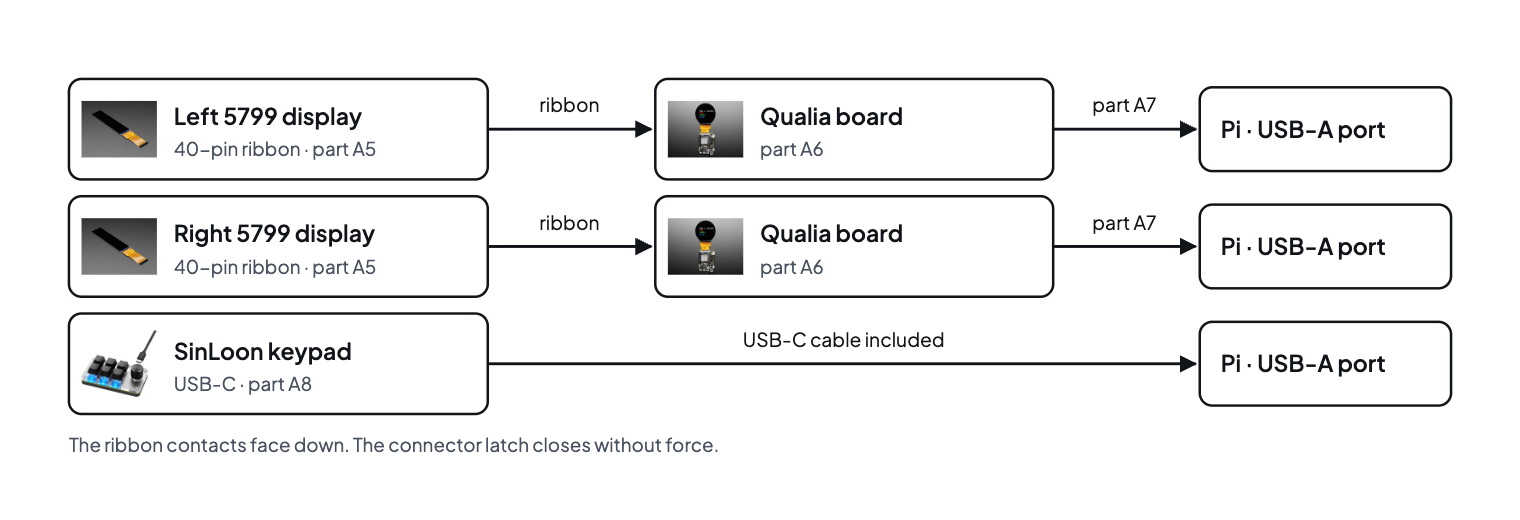
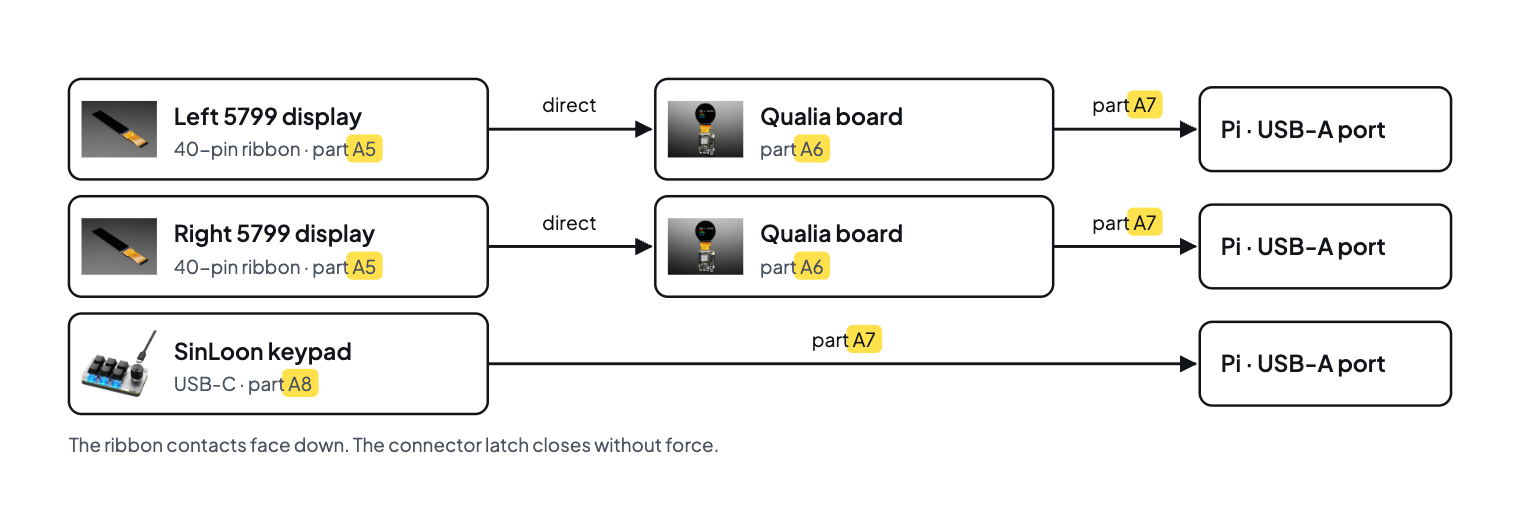
Parts list quantities as ×1 and ×2, a diagram of every link
The Qty column reads ×1, ×2 or ×3 in bold. A note warns that the power
supply A2 comes with the Pi kit A1. Each part's sheet says what it
connects to. The wiring guide opens with one drawing of every part and
every link, each marked "direct" or with the part that makes it on a
yellow chip, and explains the five parts that only make a link. The
other wiring drawings show part labels on yellow chips.

diff --git a/tests/test_repo.py b/tests/test_repo.py
@@ -120,7 +120,7 @@ class Guides(unittest.TestCase):
         self.assertEqual([r[0] for r in rows], ["A%d" % n for n in range(1, 22)])
         for label, anchor, qty in rows:
             self.assertEqual(anchor, label.lower())
-            self.assertRegex(qty.strip(), r"^\d", "%s has no quantity" % label)
+            self.assertRegex(qty.strip(), r"^\*\*×\d", "%s has no quantity such as ×2" % label)
             self.assertIn('<a id="%s"></a>%s. ' % (anchor, label), text)
         for picture in re.findall(r'src="images/parts/([^"]+)"', text):
             self.assertTrue(os.path.isfile(os.path.join(REPO, "docs", "images", "parts", picture)), picture)

diff --git a/docs/BOM.md b/docs/BOM.md
@@ -14,29 +14,29 @@ are another matter: they are measured in its print files.
 
 | No. | &nbsp;&nbsp;&nbsp;&nbsp;&nbsp;&nbsp;&nbsp;&nbsp;&nbsp;&nbsp;&nbsp;&nbsp;&nbsp;&nbsp;&nbsp;&nbsp;&nbsp;&nbsp;&nbsp;&nbsp;&nbsp;&nbsp;&nbsp;&nbsp; | Part | Qty | What it does | In version 1.0 |
 |---|---|---|---|---|---|
-| **A1** | <img src="images/parts/a01-raspberry-pi-4.jpg" width="96" alt="Raspberry Pi 4 Model B, 1 GB"> | [Raspberry Pi 4 Model B, 1 GB](#a1) | 1 | Runs the radio program, plays the sounds and drives the screens | Wired |
-| **A2** | <img src="images/parts/a02-power-supply.jpg" width="96" alt="USB-C power supply, 5.1 V 3 A"> | [USB-C power supply, 5.1 V 3 A](#a2) | 1 | Powers the whole radio through one cable | Wired |
-| **A3** | <img src="images/parts/a03-microsd-card.jpg" width="96" alt="microSD card, 32 GB"> | [microSD card, 32 GB](#a3) | 1 | Holds Raspberry Pi OS and the radio program | Wired |
-| **A4** | <img src="images/parts/a04-sd-adapter.jpg" width="96" alt="microSD to SD adapter"> | [microSD to SD adapter](#a4) | 1 | Lets a computer's SD slot write the card | Wired |
-| **A5** | <img src="images/parts/a05-bar-display.jpg" width="96" alt="3.7 in bar display, 240 × 960 pixels"> | [3.7 in bar display, 240 × 960 pixels](#a5) | 2 | Shows the frequency, the channel and the spectrum. The two sit end to end behind the window | One wired, one planned |
-| **A6** | <img src="images/parts/a06-qualia-board.jpg" width="96" alt="Qualia ESP32-S3 board for RGB-666 displays"> | [Qualia ESP32-S3 board for RGB-666 displays](#a6) | 2 | Drives one bar display each. The Pi talks to each board over USB | One wired, one planned |
-| **A7** | <img src="images/parts/a07-usb-a-to-c-cable.jpg" width="96" alt="USB-A to USB-C cable, 91 cm"> | [USB-A to USB-C cable, 91 cm](#a7) | 3 | Connects the Pi to each Qualia board, and to the keypad | Two wired, one planned |
-| **A8** | <img src="images/parts/a08-keypad.jpg" width="96" alt="SinLoon keypad, 6 keys and a knob"> | [SinLoon keypad, 6 keys and a knob](#a8) | 1 | The channel keys and the volume knob | Wired |
-| **A9** | <img src="images/parts/a09-vu-meters.jpg" width="96" alt="Pair of VU meters, 0 to 500 µA"> | [Pair of VU meters, 0 to 500 µA](#a9) | 1 pair | The SIGNAL and AUDIO needles | Planned |
-| **A10** | <img src="images/parts/a10-trim-potentiometer.jpg" width="96" alt="10 kΩ trim potentiometer"> | [10 kΩ trim potentiometer](#a10) | 2 | Sets the full scale of each needle | Planned |
-| **A11** | <img src="images/parts/a11-step-up-cable.jpg" width="96" alt="USB 5 V to 12 V step-up cable"> | [USB 5 V to 12 V step-up cable](#a11) | 1 | Turns 5 V into the 12 V that lights the meters | Planned |
-| **A12** | <img src="images/parts/a12-usb-a-socket-on-wires.jpg" width="96" alt="USB-A socket on four jumper wires"> | [USB-A socket on four jumper wires](#a12) | 1 | Gives the step-up cable a USB socket on the Pi's header | Planned |
-| **A13** | <img src="images/parts/a13-speaker.jpg" width="96" alt="MonkMakes Amplified Speaker 2"> | [MonkMakes Amplified Speaker 2](#a13) | 1 | The speaker, with its own amplifier | Wired |
-| **A14** | <img src="images/parts/a14-audio-cable.jpg" width="96" alt="3.5 mm audio cable, 30 cm, one end at a right angle"> | [3.5 mm audio cable, 30 cm, one end at a right angle](#a14) | 1 | Takes the sound from the Pi's jack to the speaker | Wired |
-| **A15** | <img src="images/parts/a15-cb-microphone.jpg" width="96" alt="Uniden BC645 CB microphone"> | [Uniden BC645 CB microphone](#a15) | 1 | The hand microphone and its push-to-talk button | Planned |
-| **A16** | <img src="images/parts/a16-microphone-socket.jpg" width="96" alt="4-pin microphone socket for the face"> | [4-pin microphone socket for the face](#a16) | 1 | The socket that the microphone plugs into | Planned |
-| **A17** | <img src="images/parts/a17-usb-sound-adapter.jpg" width="96" alt="USB sound adapter with a microphone input"> | [USB sound adapter with a microphone input](#a17) | 1 | Gives the Pi the microphone input it lacks | Planned |
-| **A18** | <img src="images/parts/a18-trrs-plug.jpg" width="96" alt="3.5 mm TRRS plug with screw terminals"> | [3.5 mm TRRS plug with screw terminals](#a18) | 1 | Joins the microphone's wires to the sound adapter | Planned |
-| **A19** | <img src="images/parts/a19-jumper-wires.jpg" width="96" alt="Female-to-female jumper wires, 30 cm"> | [Female-to-female jumper wires, 30 cm](#a19) | 1 strip of 20 | Join the Pi's pins to the speaker, the needles and the push-to-talk button | Wired |
-| **A20** | <img src="images/parts/a20-usb-c-panel-socket.jpg" width="96" alt="USB-C panel socket on a 30 cm cable"> | [USB-C panel socket on a 30 cm cable](#a20) | 1 | The power socket on the back of the case | Planned |
-| **A21** | <img src="images/parts/a21-switch-cable.jpg" width="96" alt="USB-C cable with an on and off switch"> | [USB-C cable with an on and off switch](#a21) | 1 | The master switch | Planned |
+| **A1** | <img src="images/parts/a01-raspberry-pi-4.jpg" width="96" alt="Raspberry Pi 4 Model B, 1 GB"> | [Raspberry Pi 4 Model B, 1 GB](#a1) | **×1** | Runs the radio program, plays the sounds and drives the screens | Wired |
+| **A2** | <img src="images/parts/a02-power-supply.jpg" width="96" alt="USB-C power supply, 5.1 V 3 A"> | [USB-C power supply, 5.1 V 3 A](#a2) | **×1, in the A1 kit** | Powers the whole radio through one cable | Wired |
+| **A3** | <img src="images/parts/a03-microsd-card.jpg" width="96" alt="microSD card, 32 GB"> | [microSD card, 32 GB](#a3) | **×1** | Holds Raspberry Pi OS and the radio program | Wired |
+| **A4** | <img src="images/parts/a04-sd-adapter.jpg" width="96" alt="microSD to SD adapter"> | [microSD to SD adapter](#a4) | **×1** | Lets a computer's SD slot write the card | Wired |
+| **A5** | <img src="images/parts/a05-bar-display.jpg" width="96" alt="3.7 in bar display, 240 × 960 pixels"> | [3.7 in bar display, 240 × 960 pixels](#a5) | **×2** | Shows the frequency, the channel and the spectrum. The two sit end to end behind the window | One wired, one planned |
+| **A6** | <img src="images/parts/a06-qualia-board.jpg" width="96" alt="Qualia ESP32-S3 board for RGB-666 displays"> | [Qualia ESP32-S3 board for RGB-666 displays](#a6) | **×2** | Drives one bar display each. The Pi talks to each board over USB | One wired, one planned |
+| **A7** | <img src="images/parts/a07-usb-a-to-c-cable.jpg" width="96" alt="USB-A to USB-C cable, 91 cm"> | [USB-A to USB-C cable, 91 cm](#a7) | **×3** | Connects the Pi to each Qualia board, and to the keypad | Two wired, one planned |
+| **A8** | <img src="images/parts/a08-keypad.jpg" width="96" alt="SinLoon keypad, 6 keys and a knob"> | [SinLoon keypad, 6 keys and a knob](#a8) | **×1** | The channel keys and the volume knob | Wired |
+| **A9** | <img src="images/parts/a09-vu-meters.jpg" width="96" alt="Pair of VU meters, 0 to 500 µA"> | [Pair of VU meters, 0 to 500 µA](#a9) | **×1 pair** | The SIGNAL and AUDIO needles | Planned |
+| **A10** | <img src="images/parts/a10-trim-potentiometer.jpg" width="96" alt="10 kΩ trim potentiometer"> | [10 kΩ trim potentiometer](#a10) | **×2** | Sets the full scale of each needle | Planned |
+| **A11** | <img src="images/parts/a11-step-up-cable.jpg" width="96" alt="USB 5 V to 12 V step-up cable"> | [USB 5 V to 12 V step-up cable](#a11) | **×1** | Turns 5 V into the 12 V that lights the meters | Planned |
+| **A12** | <img src="images/parts/a12-usb-a-socket-on-wires.jpg" width="96" alt="USB-A socket on four jumper wires"> | [USB-A socket on four jumper wires](#a12) | **×1** | Gives the step-up cable a USB socket on the Pi's header | Planned |
+| **A13** | <img src="images/parts/a13-speaker.jpg" width="96" alt="MonkMakes Amplified Speaker 2"> | [MonkMakes Amplified Speaker 2](#a13) | **×1** | The speaker, with its own amplifier | Wired |
+| **A14** | <img src="images/parts/a14-audio-cable.jpg" width="96" alt="3.5 mm audio cable, 30 cm, one end at a right angle"> | [3.5 mm audio cable, 30 cm, one end at a right angle](#a14) | **×1** | Takes the sound from the Pi's jack to the speaker | Wired |
+| **A15** | <img src="images/parts/a15-cb-microphone.jpg" width="96" alt="Uniden BC645 CB microphone"> | [Uniden BC645 CB microphone](#a15) | **×1** | The hand microphone and its push-to-talk button | Planned |
+| **A16** | <img src="images/parts/a16-microphone-socket.jpg" width="96" alt="4-pin microphone socket for the face"> | [4-pin microphone socket for the face](#a16) | **×1** | The socket that the microphone plugs into | Planned |
+| **A17** | <img src="images/parts/a17-usb-sound-adapter.jpg" width="96" alt="USB sound adapter with a microphone input"> | [USB sound adapter with a microphone input](#a17) | **×1** | Gives the Pi the microphone input it lacks | Planned |
+| **A18** | <img src="images/parts/a18-trrs-plug.jpg" width="96" alt="3.5 mm TRRS plug with screw terminals"> | [3.5 mm TRRS plug with screw terminals](#a18) | **×1** | Joins the microphone's wires to the sound adapter | Planned |
+| **A19** | <img src="images/parts/a19-jumper-wires.jpg" width="96" alt="Female-to-female jumper wires, 30 cm"> | [Female-to-female jumper wires, 30 cm](#a19) | **×1 strip of 20** | Join the Pi's pins to the speaker, the needles and the push-to-talk button | Wired |
+| **A20** | <img src="images/parts/a20-usb-c-panel-socket.jpg" width="96" alt="USB-C panel socket on a 30 cm cable"> | [USB-C panel socket on a 30 cm cable](#a20) | **×1** | The power socket on the back of the case | Planned |
+| **A21** | <img src="images/parts/a21-switch-cable.jpg" width="96" alt="USB-C cable with an on and off switch"> | [USB-C cable with an on and off switch](#a21) | **×1** | The master switch | Planned |
 
-Four notes on these parts.
+Five notes on these parts.
 
 - **The keypad must be this model.** The installer programs it over USB, and the tool it uses only speaks to keypads
   built on the CH57x chip that identify as `1189:8890`.
@@ -44,6 +44,8 @@ Four notes on these parts.
   240 × 960 bar.
 - **Use wires with a socket at each end on the Pi's pins.** The bench build first used crocodile clip leads. Their
   clips are too wide for pins that sit 2.54 mm apart and they did not hold, so A19 replaces them.
+- **A2 comes with A1 in the kit.** The Pi kit I ordered has its power supply in the box. Buy A2 only if your Pi
+  came without one. The radio needs one supply.
 - **One cable powers everything.** The supply A2 plugs into the socket A20 on the back. Inside, the switch cable A21
   takes the power to the Pi, and the Pi powers every other part through its USB ports and its header.
   [WIRING.md](WIRING.md#power) shows the path.
@@ -56,127 +58,127 @@ One sheet for each part, in the order of the list.
 
 | | |
 |---|---|
-| <img src="images/parts/a01-raspberry-pi-4.jpg" width="200" alt="Raspberry Pi 4 Model B, 1 GB"> | Runs the radio program, plays the sounds and drives the screens. Every other part takes its power from it.<br><br>**Quantity:** 1<br>**In version 1.0:** wired<br>**Reference:** PiShop 1GB-9002, a kit with a power supply (A2) and 3 heat sinks<br>**Processor:** Broadcom BCM2711, four Cortex-A72 cores<br>**Memory:** 1 GB<br>**Ports:** 2 USB 3.0, 2 USB 2.0, USB-C for power<br>**Header:** 40 pins<br>**Audio:** 3.5 mm jack, 4 poles<br>**Board:** 85 × 56 mm<br>**Maker's page:** https://datasheets.raspberrypi.com/rpi4/raspberry-pi-4-product-brief.pdf |
+| <img src="images/parts/a01-raspberry-pi-4.jpg" width="200" alt="Raspberry Pi 4 Model B, 1 GB"> | Runs the radio program, plays the sounds and drives the screens. Every other part takes its power from it.<br><br>**Quantity:** ×1<br>**In version 1.0:** wired<br>**Reference:** PiShop 1GB-9002, a kit with a power supply (A2) and 3 heat sinks<br>**Connects:** Every other part connects to it. [The diagram](WIRING.md#every-part-and-every-link) shows each link.<br>**Processor:** Broadcom BCM2711, four Cortex-A72 cores<br>**Memory:** 1 GB<br>**Ports:** 2 USB 3.0, 2 USB 2.0, USB-C for power<br>**Header:** 40 pins<br>**Audio:** 3.5 mm jack, 4 poles<br>**Board:** 85 × 56 mm<br>**Maker's page:** https://datasheets.raspberrypi.com/rpi4/raspberry-pi-4-product-brief.pdf |
 
 ### <a id="a2"></a>A2. USB-C power supply, 5.1 V 3 A
 
 | | |
 |---|---|
-| <img src="images/parts/a02-power-supply.jpg" width="200" alt="USB-C power supply, 5.1 V 3 A"> | Powers the whole radio. Its cable is the only one that leaves the case: it plugs into the socket A20 on the back.<br><br>**Quantity:** 1<br>**In version 1.0:** wired<br>**Reference:** The supply that came in the box with A1. Raspberry Pi's own 15 W USB-C supply is the model to buy on its own, and the one the switch cable A21 is made for.<br>**Output:** 5.1 V, 3 A<br>**Plug:** USB-C. On Raspberry Pi's own supply it ends a 1.5 m cable that does not come off.<br>**Maker's page:** https://www.raspberrypi.com/products/type-c-power-supply/ |
+| <img src="images/parts/a02-power-supply.jpg" width="200" alt="USB-C power supply, 5.1 V 3 A"> | Powers the whole radio. Its cable is the only one that leaves the case: it plugs into the socket A20 on the back.<br><br>**Quantity:** ×1, in the A1 kit<br>**In version 1.0:** wired<br>**Reference:** The supply that came in the box with A1. Raspberry Pi's own 15 W USB-C supply is the model to buy on its own, and the one the switch cable A21 is made for.<br>**Connects:** Its cable plugs into the socket A20, direct. On the bench it plugs straight into the Pi.<br>**Output:** 5.1 V, 3 A<br>**Plug:** USB-C. On Raspberry Pi's own supply it ends a 1.5 m cable that does not come off.<br>**Maker's page:** https://www.raspberrypi.com/products/type-c-power-supply/ |
 
 ### <a id="a3"></a>A3. microSD card, 32 GB
 
 | | |
 |---|---|
-| <img src="images/parts/a03-microsd-card.jpg" width="200" alt="microSD card, 32 GB"> | Holds Raspberry Pi OS and the radio program.<br><br>**Quantity:** 1<br>**In version 1.0:** wired<br>**Reference:** Patriot 32 GB, Amazon B08KSSXKYR<br>**Capacity:** 32 GB, microSDHC<br>**Adapter:** None in the box. A4 is the adapter. |
+| <img src="images/parts/a03-microsd-card.jpg" width="200" alt="microSD card, 32 GB"> | Holds Raspberry Pi OS and the radio program.<br><br>**Quantity:** ×1<br>**In version 1.0:** wired<br>**Reference:** Patriot 32 GB, Amazon B08KSSXKYR<br>**Connects:** Goes into the Pi's microSD slot, direct.<br>**Capacity:** 32 GB, microSDHC<br>**Adapter:** None in the box. A4 is the adapter. |
 
 ### <a id="a4"></a>A4. microSD to SD adapter
 
 | | |
 |---|---|
-| <img src="images/parts/a04-sd-adapter.jpg" width="200" alt="microSD to SD adapter"> | Lets a computer's SD slot write the card.<br><br>**Quantity:** 1<br>**In version 1.0:** wired<br>**Reference:** Adafruit 5447<br>**Format:** microSD to SD, short version<br>**Maker's page:** https://www.adafruit.com/product/5447 |
+| <img src="images/parts/a04-sd-adapter.jpg" width="200" alt="microSD to SD adapter"> | Lets a computer's SD slot write the card.<br><br>**Quantity:** ×1<br>**In version 1.0:** wired<br>**Reference:** Adafruit 5447<br>**Connects:** Holds A3 in a computer's SD slot while you prepare the card. It does not go in the radio.<br>**Format:** microSD to SD, short version<br>**Maker's page:** https://www.adafruit.com/product/5447 |
 
 ### <a id="a5"></a>A5. 3.7 in bar display, 240 × 960 pixels
 
 | | |
 |---|---|
-| <img src="images/parts/a05-bar-display.jpg" width="200" alt="3.7 in bar display, 240 × 960 pixels"> | Shows the frequency, the channel and the spectrum. The finished radio has two, end to end behind the window.<br><br>**Quantity:** 2<br>**In version 1.0:** one wired, one planned<br>**Reference:** Adafruit 5799<br>**Model:** HD371001C40, no touch screen<br>**Driver:** ST7701S<br>**Interface:** TTL RGB on a 40-pin ribbon<br>**Outline:** 98.89 × 25.3 mm<br>**Lit area:** 91.44 × 22.86 mm<br>**Ribbon:** 20.5 mm wide, 50 mm long<br>**Maker's page:** https://www.adafruit.com/product/5799 |
+| <img src="images/parts/a05-bar-display.jpg" width="200" alt="3.7 in bar display, 240 × 960 pixels"> | Shows the frequency, the channel and the spectrum. The finished radio has two, end to end behind the window.<br><br>**Quantity:** ×2<br>**In version 1.0:** one wired, one planned<br>**Reference:** Adafruit 5799<br>**Connects:** Its ribbon goes straight into the Qualia board A6, direct.<br>**Model:** HD371001C40, no touch screen<br>**Driver:** ST7701S<br>**Interface:** TTL RGB on a 40-pin ribbon<br>**Outline:** 98.89 × 25.3 mm<br>**Lit area:** 91.44 × 22.86 mm<br>**Ribbon:** 20.5 mm wide, 50 mm long<br>**Maker's page:** https://www.adafruit.com/product/5799 |
 
 ### <a id="a6"></a>A6. Qualia ESP32-S3 board for RGB-666 displays
 
 | | |
 |---|---|
-| <img src="images/parts/a06-qualia-board.jpg" width="200" alt="Qualia ESP32-S3 board for RGB-666 displays"> | Drives one bar display. Each display has its own board, and the Pi talks to each board over USB.<br><br>**Quantity:** 2<br>**In version 1.0:** one wired, one planned<br>**Reference:** Adafruit 5800<br>**Chip:** ESP32-S3, 16 MB of flash, 8 MB of PSRAM<br>**Display connector:** 40 pins, RGB-666<br>**USB:** USB-C, for power and programming<br>**Board:** 58 × 43 mm<br>**Maker's page:** https://learn.adafruit.com/adafruit-qualia-esp32-s3-for-rgb666-displays |
+| <img src="images/parts/a06-qualia-board.jpg" width="200" alt="Qualia ESP32-S3 board for RGB-666 displays"> | Drives one bar display. Each display has its own board, and the Pi talks to each board over USB.<br><br>**Quantity:** ×2<br>**In version 1.0:** one wired, one planned<br>**Reference:** Adafruit 5800<br>**Connects:** A USB-A port of the Pi, with A7. The ribbon of A5, direct.<br>**Chip:** ESP32-S3, 16 MB of flash, 8 MB of PSRAM<br>**Display connector:** 40 pins, RGB-666<br>**USB:** USB-C, for power and programming<br>**Board:** 58 × 43 mm<br>**Maker's page:** https://learn.adafruit.com/adafruit-qualia-esp32-s3-for-rgb666-displays |
 
 ### <a id="a7"></a>A7. USB-A to USB-C cable, 91 cm
 
 | | |
 |---|---|
-| <img src="images/parts/a07-usb-a-to-c-cable.jpg" width="200" alt="USB-A to USB-C cable, 91 cm"> | Connects a USB-A port of the Pi to a Qualia board. The third one goes to the keypad, in place of the keypad's own cable.<br><br>**Quantity:** 3<br>**In version 1.0:** two wired, one planned<br>**Reference:** PiShop CS-PID-45<br>**Standard:** USB 2.0. It must be a data cable.<br>**Length:** 91 cm (3 ft). A shorter one fits the case better. |
+| <img src="images/parts/a07-usb-a-to-c-cable.jpg" width="200" alt="USB-A to USB-C cable, 91 cm"> | Connects a USB-A port of the Pi to a Qualia board. The third one goes to the keypad, in place of the keypad's own cable.<br><br>**Quantity:** ×3<br>**In version 1.0:** two wired, one planned<br>**Reference:** PiShop CS-PID-45<br>**Connects:** Two go from USB-A ports of the Pi to the two Qualia boards A6. One goes from a USB-A port to the keypad A8.<br>**Standard:** USB 2.0. It must be a data cable.<br>**Length:** 91 cm (3 ft). A shorter one fits the case better. |
 
 ### <a id="a8"></a>A8. SinLoon keypad, 6 keys and a knob
 
 | | |
 |---|---|
-| <img src="images/parts/a08-keypad.jpg" width="200" alt="SinLoon keypad, 6 keys and a knob"> | The channel keys and the volume knob.<br><br>**Quantity:** 1<br>**In version 1.0:** wired<br>**Reference:** Amazon B0DN9T9J75, model SL2024502<br>**Keys:** 6 mechanical keys and 1 knob that turns and presses<br>**Light:** RGB, under the keys<br>**Connection:** USB-C, cable in the box<br>**USB identity:** `1189:8890`, which the installer looks for |
+| <img src="images/parts/a08-keypad.jpg" width="200" alt="SinLoon keypad, 6 keys and a knob"> | The channel keys and the volume knob.<br><br>**Quantity:** ×1<br>**In version 1.0:** wired<br>**Reference:** Amazon B0DN9T9J75, model SL2024502<br>**Connects:** A USB-A port of the Pi, with A7.<br>**Keys:** 6 mechanical keys and 1 knob that turns and presses<br>**Light:** RGB, under the keys<br>**Connection:** USB-C, cable in the box<br>**USB identity:** `1189:8890`, which the installer looks for |
 
 ### <a id="a9"></a>A9. Pair of VU meters, 0 to 500 µA
 
 | | |
 |---|---|
-| <img src="images/parts/a09-vu-meters.jpg" width="200" alt="Pair of VU meters, 0 to 500 µA"> | The SIGNAL and AUDIO needles.<br><br>**Quantity:** 1 pair<br>**In version 1.0:** planned<br>**Reference:** Amazon B0GV1VC7PZ<br>**In the box:** 2 meters and 2 driver boards<br>**Scale:** 0 to 500 µA<br>**Size:** 46 × 48 × 46 mm each<br>**Lamp:** 12 V LED<br>**Driver boards:** 6 to 12 V in, 55 mA |
+| <img src="images/parts/a09-vu-meters.jpg" width="200" alt="Pair of VU meters, 0 to 500 µA"> | The SIGNAL and AUDIO needles.<br><br>**Quantity:** ×1 pair<br>**In version 1.0:** planned<br>**Reference:** Amazon B0GV1VC7PZ<br>**Connects:** Each needle: a pin of the Pi, the potentiometer A10, then the meter's + terminal, with A19 wires. The − terminal goes back to a ground pin with A19. The lamps: the two wires of A11, direct.<br>**In the box:** 2 meters and 2 driver boards<br>**Scale:** 0 to 500 µA<br>**Size:** 46 × 48 × 46 mm each<br>**Lamp:** 12 V LED<br>**Driver boards:** 6 to 12 V in, 55 mA |
 
 ### <a id="a10"></a>A10. 10 kΩ trim potentiometer
 
 | | |
 |---|---|
-| <img src="images/parts/a10-trim-potentiometer.jpg" width="200" alt="10 kΩ trim potentiometer"> | Sets the full scale of each needle. One sits in series with each meter.<br><br>**Quantity:** 2<br>**In version 1.0:** planned<br>**Reference:** PiShop 88<br>**Value:** 10 kΩ<br>**Pins:** 3, spaced 2.54 mm |
+| <img src="images/parts/a10-trim-potentiometer.jpg" width="200" alt="10 kΩ trim potentiometer"> | Sets the full scale of each needle. One sits in series with each meter.<br><br>**Quantity:** ×2<br>**In version 1.0:** planned<br>**Reference:** PiShop 88<br>**Connects:** Sits between a pin of the Pi and the + terminal of a meter, with an A19 wire on each side.<br>**Value:** 10 kΩ<br>**Pins:** 3, spaced 2.54 mm |
 
 ### <a id="a11"></a>A11. USB 5 V to 12 V step-up cable
 
 | | |
 |---|---|
-| <img src="images/parts/a11-step-up-cable.jpg" width="200" alt="USB 5 V to 12 V step-up cable"> | The meters' lamps need 12 V and the Pi only has 5 V. This cable takes 5 V on its USB-A plug and gives 12 V on two bare wires, red for + and black for −. Its plug goes into the socket A12, and its two wires go to the lamps of the two meters.<br><br>**Quantity:** 1<br>**In version 1.0:** planned<br>**Reference:** SinLoon, Amazon B0F2YKGS25. It comes in a pack of 3.<br>**Input:** USB-A plug, 5 V, 2 A at most<br>**Output:** 12 V, 0.8 A at most, on bare wires<br>**Length:** 88 cm |
+| <img src="images/parts/a11-step-up-cable.jpg" width="200" alt="USB 5 V to 12 V step-up cable"> | The meters' lamps need 12 V and the Pi only has 5 V. This cable takes 5 V on its USB-A plug and gives 12 V on two bare wires, red for + and black for −. Its plug goes into the socket A12, and its two wires go to the lamps of the two meters.<br><br>**Quantity:** ×1<br>**In version 1.0:** planned<br>**Reference:** SinLoon, Amazon B0F2YKGS25. It comes in a pack of 3.<br>**Connects:** Its USB plug goes into A12, direct. Its red and black wires go to the lamps of A9, direct.<br>**Input:** USB-A plug, 5 V, 2 A at most<br>**Output:** 12 V, 0.8 A at most, on bare wires<br>**Length:** 88 cm |
 
 ### <a id="a12"></a>A12. USB-A socket on four jumper wires
 
 | | |
 |---|---|
-| <img src="images/parts/a12-usb-a-socket-on-wires.jpg" width="200" alt="USB-A socket on four jumper wires"> | The four USB ports of the Pi are taken by the two Qualia boards, the keypad and the sound adapter. This short cable gives the step-up cable A11 a fifth USB-A socket, fed from two pins of the Pi's header. Only its red and black wires are used.<br><br>**Quantity:** 1<br>**In version 1.0:** planned<br>**Reference:** Adafruit 4449<br>**Socket:** USB-A female, on a 30 cm cable<br>**Wires:** Four female ends spaced 2.54 mm. Red is 5 V and goes to pin 4. Black is ground and goes to pin 34. Green and white are the data lines and stay free, each one insulated.<br>**Maker's page:** https://www.adafruit.com/product/4449 |
+| <img src="images/parts/a12-usb-a-socket-on-wires.jpg" width="200" alt="USB-A socket on four jumper wires"> | The four USB ports of the Pi are taken by the two Qualia boards, the keypad and the sound adapter. This short cable gives the step-up cable A11 a fifth USB-A socket, fed from two pins of the Pi's header. Only its red and black wires are used.<br><br>**Quantity:** ×1<br>**In version 1.0:** planned<br>**Reference:** Adafruit 4449<br>**Connects:** Its red and black ends slide onto pins 4 and 34 of the Pi, direct. A11 plugs into its socket.<br>**Socket:** USB-A female, on a 30 cm cable<br>**Wires:** Four female ends spaced 2.54 mm. Red is 5 V and goes to pin 4. Black is ground and goes to pin 34. Green and white are the data lines and stay free, each one insulated.<br>**Maker's page:** https://www.adafruit.com/product/4449 |
 
 ### <a id="a13"></a>A13. MonkMakes Amplified Speaker 2
 
 | | |
 |---|---|
-| <img src="images/parts/a13-speaker.jpg" width="200" alt="MonkMakes Amplified Speaker 2"> | The speaker, with its own amplifier.<br><br>**Quantity:** 1<br>**In version 1.0:** wired<br>**Reference:** PiShop 348-1<br>**Power:** 3.3 to 6 V, 300 mA at most<br>**Speaker:** 8 Ω, 500 mW<br>**Input:** 3.5 mm jack<br>**Size:** 51 × 56 × 61 mm<br>**Maker's page:** https://monkmakes.com/downloads/datasheet_amp_speaker_2.pdf |
+| <img src="images/parts/a13-speaker.jpg" width="200" alt="MonkMakes Amplified Speaker 2"> | The speaker, with its own amplifier.<br><br>**Quantity:** ×1<br>**In version 1.0:** wired<br>**Reference:** PiShop 348-1<br>**Connects:** Sound: the Pi's 3.5 mm jack, with A14. Power: pins 2 and 6 of the Pi, with two A19 wires.<br>**Power:** 3.3 to 6 V, 300 mA at most<br>**Speaker:** 8 Ω, 500 mW<br>**Input:** 3.5 mm jack<br>**Size:** 51 × 56 × 61 mm<br>**Maker's page:** https://monkmakes.com/downloads/datasheet_amp_speaker_2.pdf |
 
 ### <a id="a14"></a>A14. 3.5 mm audio cable, 30 cm, one end at a right angle
 
 | | |
 |---|---|
-| <img src="images/parts/a14-audio-cable.jpg" width="200" alt="3.5 mm audio cable, 30 cm, one end at a right angle"> | Takes the sound from the Pi's jack to the speaker.<br><br>**Quantity:** 1<br>**In version 1.0:** wired<br>**Reference:** Amazon B08F2GRHXC<br>**Plugs:** 3.5 mm male at both ends, one at 90°<br>**Length:** 30 cm |
+| <img src="images/parts/a14-audio-cable.jpg" width="200" alt="3.5 mm audio cable, 30 cm, one end at a right angle"> | Takes the sound from the Pi's jack to the speaker.<br><br>**Quantity:** ×1<br>**In version 1.0:** wired<br>**Reference:** Amazon B08F2GRHXC<br>**Connects:** From the Pi's 3.5 mm jack to the jack of the speaker A13.<br>**Plugs:** 3.5 mm male at both ends, one at 90°<br>**Length:** 30 cm |
 
 ### <a id="a15"></a>A15. Uniden BC645 CB microphone
 
 | | |
 |---|---|
-| <img src="images/parts/a15-cb-microphone.jpg" width="200" alt="Uniden BC645 CB microphone"> | The hand microphone and its push-to-talk button. It plugs into the socket A16 on the face.<br><br>**Quantity:** 1<br>**In version 1.0:** planned<br>**Reference:** Amazon B008CLIB5K<br>**Plug:** 4 pins, female, wired the Cobra and Uniden way<br>**Cord:** Coiled, 2.4 m<br>**Button:** Push to talk |
+| <img src="images/parts/a15-cb-microphone.jpg" width="200" alt="Uniden BC645 CB microphone"> | The hand microphone and its push-to-talk button. It plugs into the socket A16 on the face.<br><br>**Quantity:** ×1<br>**In version 1.0:** planned<br>**Reference:** Amazon B008CLIB5K<br>**Connects:** Its plug goes into the socket A16, direct.<br>**Plug:** 4 pins, female, wired the Cobra and Uniden way<br>**Cord:** Coiled, 2.4 m<br>**Button:** Push to talk |
 
 ### <a id="a16"></a>A16. 4-pin microphone socket for the face
 
 | | |
 |---|---|
-| <img src="images/parts/a16-microphone-socket.jpg" width="200" alt="4-pin microphone socket for the face"> | The socket on the face that the microphone A15 plugs into. Cobra and Uniden CB radios have the same socket. Behind the face, its pins 1 and 2 go to the plug A18, and its pins 1 and 3 go to the Pi's header for the push-to-talk button.<br><br>**Quantity:** 1<br>**In version 1.0:** planned<br>**Reference:** Workman C-4P. I have not ordered it yet.<br>**Pins:** 4, male<br>**Body:** Metal, with a nut and a washer<br>**Hole:** The face has a 16.2 mm hole for it. Workman does not give the hole size: hold the socket in the hole before you print the face.<br>**Wires:** Its pins take soldered wires. It is the one part of the radio that needs a soldering iron.<br>**Seller's page:** https://cbradiosupply.com/products/cb-radio-accessories-workman-c-4p-replacement-4-pin-cb-radio-microphone-panel-jack-mount |
+| <img src="images/parts/a16-microphone-socket.jpg" width="200" alt="4-pin microphone socket for the face"> | The socket on the face that the microphone A15 plugs into. Cobra and Uniden CB radios have the same socket. Behind the face, its pins 1 and 2 go to the plug A18, and its pins 1 and 3 go to the Pi's header for the push-to-talk button.<br><br>**Quantity:** ×1<br>**In version 1.0:** planned<br>**Reference:** Workman C-4P. I have not ordered it yet.<br>**Connects:** Pins 1 and 2: to the screw terminals of A18, with A19 wires soldered at the socket. Pins 1 and 3: to pins 9 and 11 of the Pi, with A19 wires soldered at the socket.<br>**Pins:** 4, male<br>**Body:** Metal, with a nut and a washer<br>**Hole:** The face has a 16.2 mm hole for it. Workman does not give the hole size: hold the socket in the hole before you print the face.<br>**Wires:** Its pins take soldered wires. It is the one part of the radio that needs a soldering iron.<br>**Seller's page:** https://cbradiosupply.com/products/cb-radio-accessories-workman-c-4p-replacement-4-pin-cb-radio-microphone-panel-jack-mount |
 
 ### <a id="a17"></a>A17. USB sound adapter with a microphone input
 
 | | |
 |---|---|
-| <img src="images/parts/a17-usb-sound-adapter.jpg" width="200" alt="USB sound adapter with a microphone input"> | The Pi has a sound output but no microphone input. This adapter plugs into a USB port of the Pi and adds a 3.5 mm jack with a microphone input. The plug A18 goes into that jack.<br><br>**Quantity:** 1<br>**In version 1.0:** planned<br>**Reference:** DuKabel, Amazon B07RS11M1T<br>**Jack:** 3.5 mm, 4 poles (TRRS), microphone and output<br>**Standard:** CTIA<br>**Cable:** Braided, 25 cm |
+| <img src="images/parts/a17-usb-sound-adapter.jpg" width="200" alt="USB sound adapter with a microphone input"> | The Pi has a sound output but no microphone input. This adapter plugs into a USB port of the Pi and adds a 3.5 mm jack with a microphone input. The plug A18 goes into that jack.<br><br>**Quantity:** ×1<br>**In version 1.0:** planned<br>**Reference:** DuKabel, Amazon B07RS11M1T<br>**Connects:** A USB-A port of the Pi, direct, on its own cable. A18 plugs into its jack.<br>**Jack:** 3.5 mm, 4 poles (TRRS), microphone and output<br>**Standard:** CTIA<br>**Cable:** Braided, 25 cm |
 
 ### <a id="a18"></a>A18. 3.5 mm TRRS plug with screw terminals
 
 | | |
 |---|---|
-| <img src="images/parts/a18-trrs-plug.jpg" width="200" alt="3.5 mm TRRS plug with screw terminals"> | A 3.5 mm plug whose four contacts end in screw terminals. The microphone's two audio wires, from the socket A16, are screwed in here, and the plug goes into the jack of the sound adapter A17. No soldering at this end.<br><br>**Quantity:** 1<br>**In version 1.0:** planned<br>**Reference:** Amazon B08QFHHJ3Z. It comes in a pack of 2.<br>**Plug:** 3.5 mm male, 4 poles<br>**Terminals:** 4 screw terminals<br>**Length:** 32 cm |
+| <img src="images/parts/a18-trrs-plug.jpg" width="200" alt="3.5 mm TRRS plug with screw terminals"> | A 3.5 mm plug whose four contacts end in screw terminals. The microphone's two audio wires, from the socket A16, are screwed in here, and the plug goes into the jack of the sound adapter A17. No soldering at this end.<br><br>**Quantity:** ×1<br>**In version 1.0:** planned<br>**Reference:** Amazon B08QFHHJ3Z. It comes in a pack of 2.<br>**Connects:** Plugs into the jack of A17, direct. The wires from A16 go into its screw terminals.<br>**Plug:** 3.5 mm male, 4 poles<br>**Terminals:** 4 screw terminals<br>**Length:** 32 cm |
 
 ### <a id="a19"></a>A19. Female-to-female jumper wires, 30 cm
 
 | | |
 |---|---|
-| <img src="images/parts/a19-jumper-wires.jpg" width="200" alt="Female-to-female jumper wires, 30 cm"> | Join the Pi's header to the speaker's pins, to the needles and to the push-to-talk wires. A socket at each end slides onto a pin, so nothing is clipped or soldered. The radio uses 8 of the 20.<br><br>**Quantity:** 1 strip of 20<br>**In version 1.0:** wired<br>**Reference:** Adafruit 1949<br>**Ends:** Female at both ends, spaced 2.54 mm<br>**Length:** 30 cm<br>**Wire:** 28 AWG, in a ribbon of 20 that peels apart<br>**Maker's page:** https://www.adafruit.com/product/1949 |
+| <img src="images/parts/a19-jumper-wires.jpg" width="200" alt="Female-to-female jumper wires, 30 cm"> | Join the Pi's header to the speaker's pins, to the needles and to the push-to-talk wires. A socket at each end slides onto a pin, so nothing is clipped.<br><br>**Quantity:** ×1 strip of 20<br>**In version 1.0:** wired<br>**Reference:** Adafruit 1949<br>**Connects:** 12 of the 20: two for the speaker, three for each needle, two for the push-to-talk button, two from the microphone socket to A18.<br>**Ends:** Female at both ends, spaced 2.54 mm<br>**Length:** 30 cm<br>**Wire:** 28 AWG, in a ribbon of 20 that peels apart<br>**Maker's page:** https://www.adafruit.com/product/1949 |
 
 ### <a id="a20"></a>A20. USB-C panel socket on a 30 cm cable
 
 | | |
 |---|---|
-| <img src="images/parts/a20-usb-c-panel-socket.jpg" width="200" alt="USB-C panel socket on a 30 cm cable"> | The power socket on the back of the case. The supply A2 plugs in from outside. Inside, its cable goes to the switch cable A21.<br><br>**Quantity:** 1<br>**In version 1.0:** planned<br>**Reference:** Adafruit 4218. I have not ordered it yet.<br>**Ends:** USB-C female in the panel, USB-C male at the end of the cable<br>**Cable:** 30 cm<br>**Hole:** 21.5 to 27 mm across, in a panel up to 16 mm thick. The nut is about 29.5 mm across.<br>**Maker's page:** https://www.adafruit.com/product/4218 |
+| <img src="images/parts/a20-usb-c-panel-socket.jpg" width="200" alt="USB-C panel socket on a 30 cm cable"> | The power socket on the back of the case. The supply A2 plugs in from outside. Inside, its cable goes to the switch cable A21.<br><br>**Quantity:** ×1<br>**In version 1.0:** planned<br>**Reference:** Adafruit 4218. I have not ordered it yet.<br>**Connects:** The supply A2 plugs in from outside. Its cable plugs into the switch cable A21, direct.<br>**Ends:** USB-C female in the panel, USB-C male at the end of the cable<br>**Cable:** 30 cm<br>**Hole:** 21.5 to 27 mm across, in a panel up to 16 mm thick. The nut is about 29.5 mm across.<br>**Maker's page:** https://www.adafruit.com/product/4218 |
 
 ### <a id="a21"></a>A21. USB-C cable with an on and off switch
 
 | | |
 |---|---|
-| <img src="images/parts/a21-switch-cable.jpg" width="200" alt="USB-C cable with an on and off switch"> | The master switch: one click cuts the power of the whole radio, and a red light shows when it is on.<br><br>**Quantity:** 1<br>**In version 1.0:** planned<br>**Reference:** The Pi Hut 102509. I have not ordered it yet.<br>**Ends:** USB-C female to USB-C male<br>**Length:** About 31 cm<br>**Switch:** Push to turn on, push again to turn off, with a red light<br>**Use:** Made for the Raspberry Pi 4 with its own power supply. It passes power only, no data.<br>**Maker's page:** https://thepihut.com/products/usb-c-cable-with-switch |
+| <img src="images/parts/a21-switch-cable.jpg" width="200" alt="USB-C cable with an on and off switch"> | The master switch: one click cuts the power of the whole radio, and a red light shows when it is on.<br><br>**Quantity:** ×1<br>**In version 1.0:** planned<br>**Reference:** The Pi Hut 102509. I have not ordered it yet.<br>**Connects:** From the cable of A20 to the Pi's USB-C port, direct.<br>**Ends:** USB-C female to USB-C male<br>**Length:** About 31 cm<br>**Switch:** Push to turn on, push again to turn off, with a red light<br>**Use:** Made for the Raspberry Pi 4 with its own power supply. It passes power only, no data.<br>**Maker's page:** https://thepihut.com/products/usb-c-cable-with-switch |
 
 ## Where the pictures come from
 

diff --git a/docs/WIRING.md b/docs/WIRING.md
@@ -18,6 +18,25 @@ Version 1.0 connects the keypad, one display with its Qualia board, and the spea
 plugs straight into the Pi. In the finished radio it plugs into a socket on the back, and a switch cable inside takes
 the power on to the Pi. [Power](#power) shows that path.
 
+## Every part and every link
+
+Each link is marked one of two ways. A yellow chip names the part from [the parts list](BOM.md) that makes the link.
+"direct" means the two plug into each other with nothing between them.
+
+![Every part of the finished radio, and every link between them](images/wiring/every-link.png)
+
+Five parts are there only to make a link, and the drawing shows where each one sits.
+
+| Part | Why the radio needs it |
+|---|---|
+| A14, the audio cable | The speaker takes its sound on a 3.5 mm jack. A14 takes it there from the Pi's own 3.5 mm jack. The two A19 wires on pins 2 and 6 give the speaker its power only. |
+| A17, the USB sound adapter | The Pi has a sound output and no microphone input. A17 plugs into a USB-A port and adds one. |
+| A18, the TRRS plug with screws | It is the plug that goes into A17's jack. The two sound wires of the microphone socket A16 are screwed into it. |
+| A12, the USB-A socket on wires | The Pi's four USB-A ports are taken: two Qualia boards, the keypad and A17. A12 is a fifth socket, for power only, fed by pins 4 and 34 of the header. |
+| A11, the step-up cable | The meters' lamps need 12 V. A11 plugs into A12, takes its 5 V and gives 12 V on two wires that go to the lamps. It comes in a pack of 3, and the radio uses one. |
+
+No cable goes to a computer. The radio works alone and joins the network over the Pi's Wi-Fi.
+
 ## Version 1.0 on the bench
 
 Unplug the Pi's power before you connect or move a wire.
@@ -108,6 +127,10 @@ start with each potentiometer at its 10 kΩ maximum, send the largest signal, th
 needle reaches the end of its scale.
 
 ![Each needle: a pin of the Pi, a potentiometer, a meter and its ground](images/wiring/needles.png)
+
+Each needle takes three A19 wires: pin to potentiometer, potentiometer to the meter's + terminal, and the meter's −
+terminal back to a ground pin. The potentiometer's pins take the wires' sockets directly. I have not checked how a
+wire holds on the meter's terminals. If they are screws, cut one end of the wire, strip it and hold it under the nut.
 
 ### The microphone and its push-to-talk button
 
